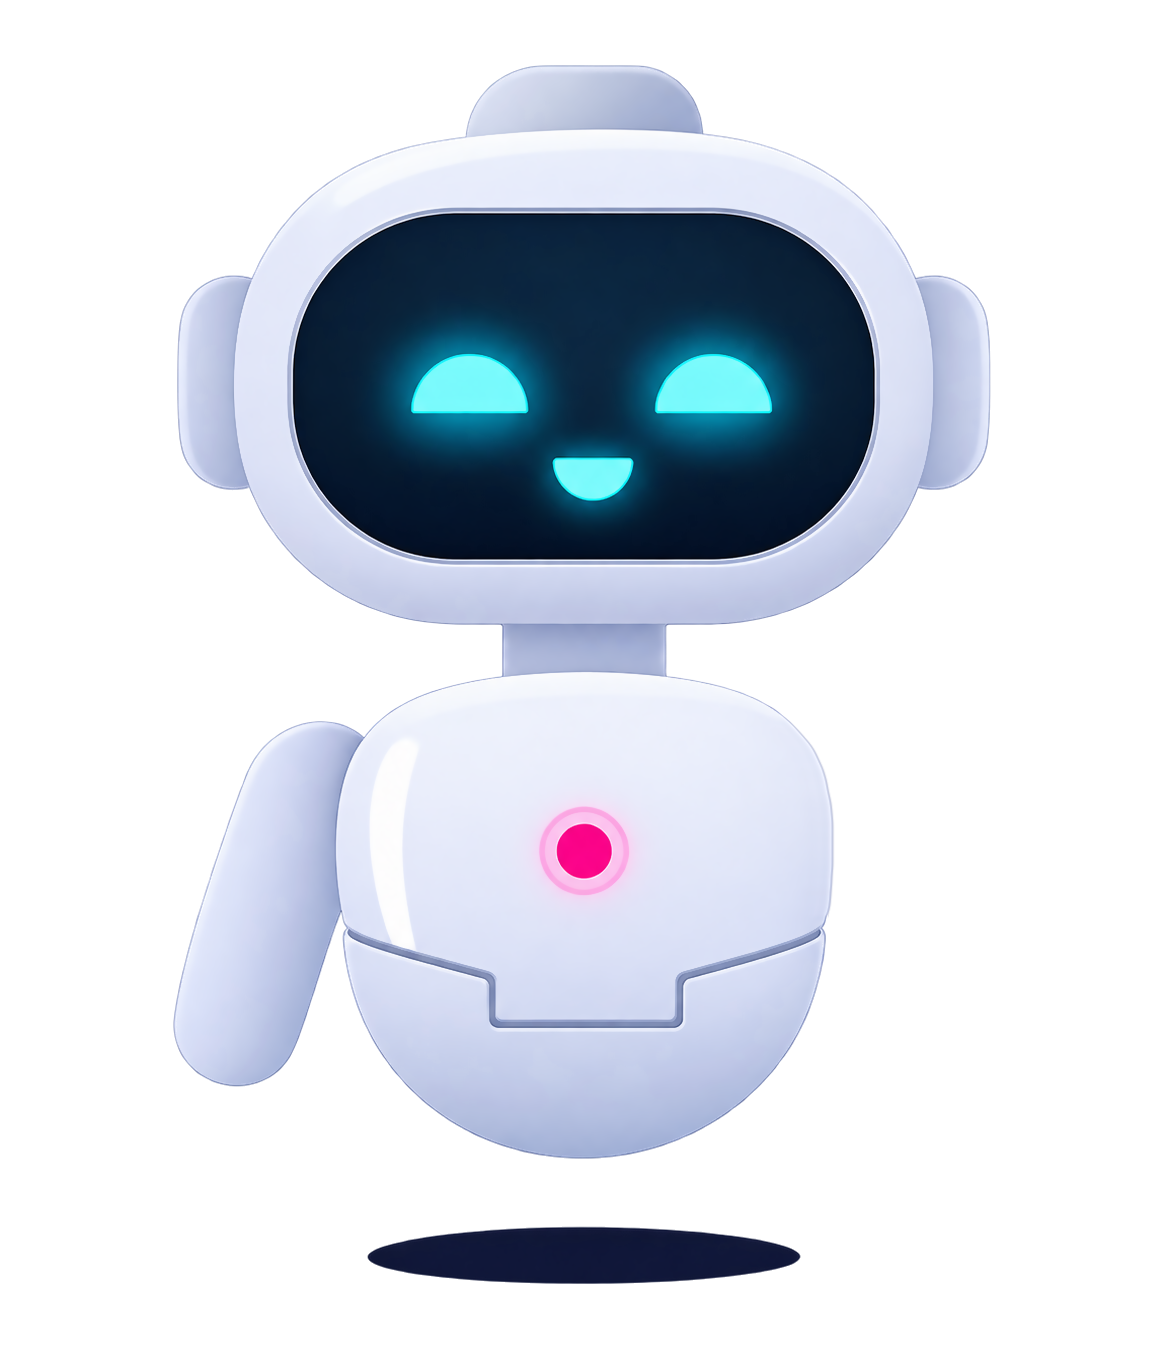
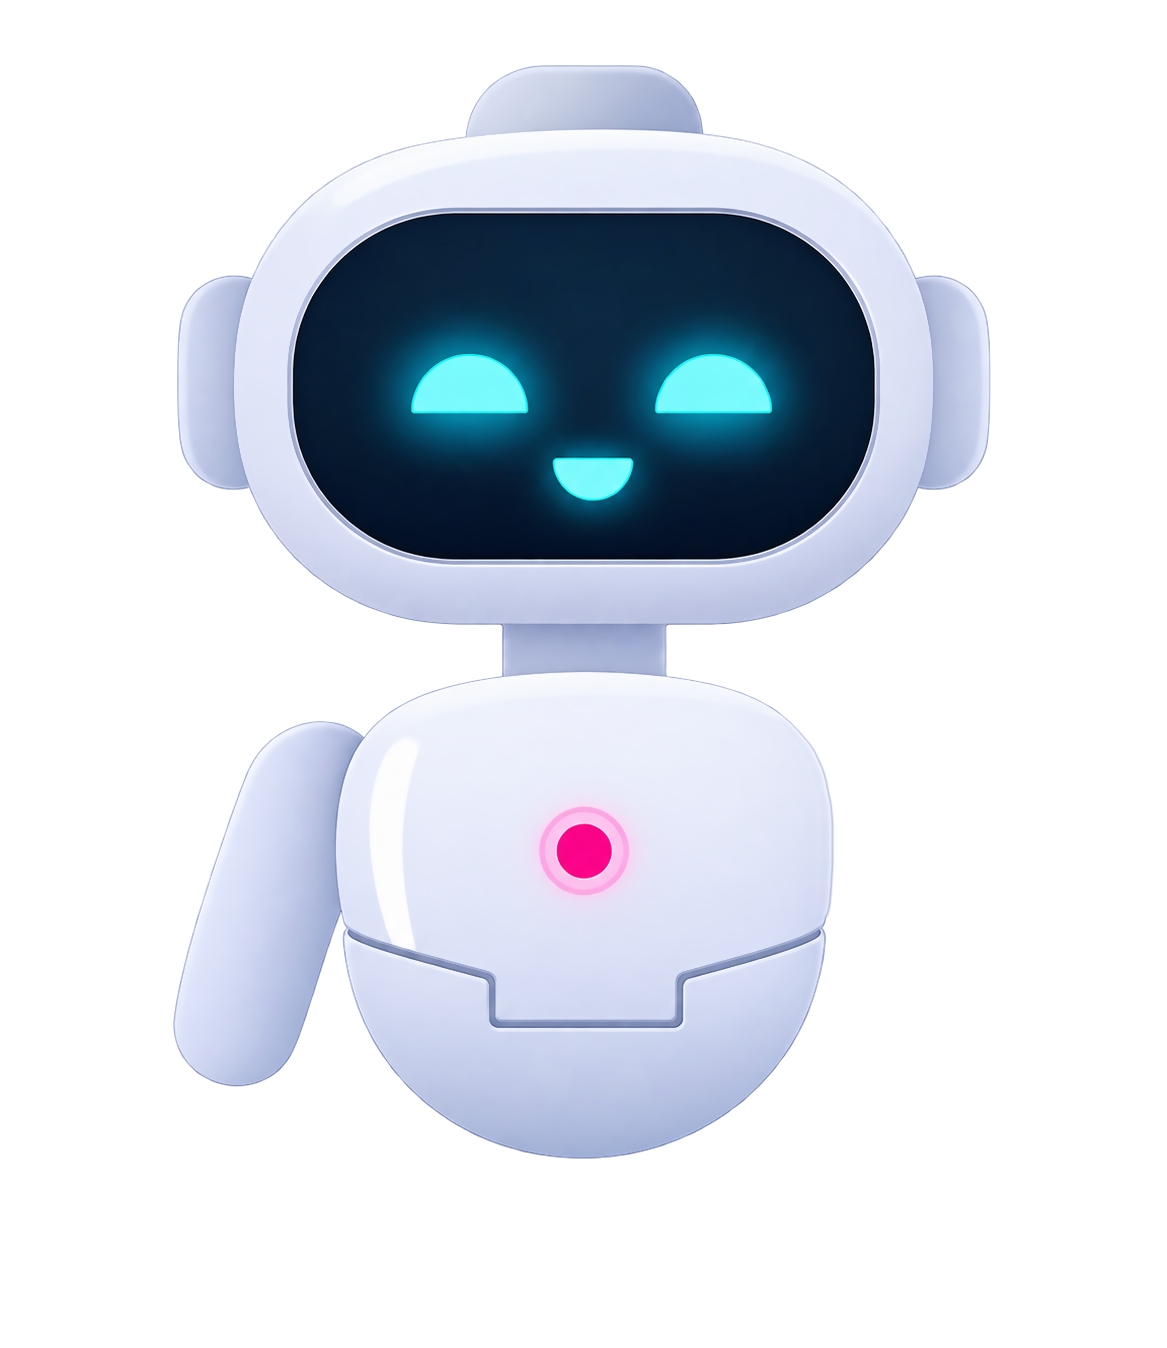
Auto-update

Changed region(s): [[0.3085, 0.9036, 0.6787, 0.9659]]

diff --git a/index.html b/index.html
@@ -120,46 +120,53 @@
         <div class="mascot-stage">
           <div class="mascot-views">
             <div class="robot-mascot is-active" data-mascot="zion">
-              <p class="robot-bubble">Hi, I'm Zion!</p>
-              <!-- Body art with the left arm removed; the arm is its own image so it can wave from the shoulder. -->
-              <img
-                class="robot-arm"
-                src="images/z1p-mascot-arm.png"
-                width="220"
-                height="375"
-                alt=""
-                aria-hidden="true"
-                loading="lazy"
-                decoding="async">
-              <img
-                class="robot-image"
-                src="images/z1p-mascot-body.png"
-                width="1167"
-                height="1348"
-                alt="Zion (Z109), the ZIP.RPO robot mascot"
-                loading="lazy"
-                decoding="async">
+              <!-- The floor shadow stays put while the figure (arm, body and bubble) floats above it. -->
+              <img class="robot-shadow" src="images/z1p-mascot-shadow.png" width="440" height="64" alt="" aria-hidden="true" loading="lazy" decoding="async">
+              <div class="robot-figure">
+                <p class="robot-bubble">Hi, I'm Zion!</p>
+                <!-- Body art with the left arm removed; the arm is its own image so it can wave from the shoulder. -->
+                <img
+                  class="robot-arm"
+                  src="images/z1p-mascot-arm.png"
+                  width="220"
+                  height="375"
+                  alt=""
+                  aria-hidden="true"
+                  loading="lazy"
+                  decoding="async">
+                <img
+                  class="robot-image"
+                  src="images/z1p-mascot-body.png"
+                  width="1167"
+                  height="1348"
+                  alt="Zion (Z109), the ZIP.RPO robot mascot"
+                  loading="lazy"
+                  decoding="async">
+              </div>
             </div>
 
             <div class="robot-mascot" data-mascot="zeta" aria-hidden="true">
-              <p class="robot-bubble">Hi, I'm Zeta!</p>
-              <img
-                class="robot-arm"
-                src="images/zeta-mascot-arm.png"
-                width="131"
-                height="214"
-                alt=""
-                aria-hidden="true"
-                loading="lazy"
-                decoding="async">
-              <img
-                class="robot-image"
-                src="images/zeta-mascot-body.png"
-                width="584"
-                height="674"
-                alt="Zeta, the pink ZIP.RPO robot mascot"
-                loading="lazy"
-                decoding="async">
+              <img class="robot-shadow" src="images/zeta-mascot-shadow.png" width="213" height="37" alt="" aria-hidden="true" loading="lazy" decoding="async">
+              <div class="robot-figure">
+                <p class="robot-bubble">Hi, I'm Zeta!</p>
+                <img
+                  class="robot-arm"
+                  src="images/zeta-mascot-arm.png"
+                  width="131"
+                  height="214"
+                  alt=""
+                  aria-hidden="true"
+                  loading="lazy"
+                  decoding="async">
+                <img
+                  class="robot-image"
+                  src="images/zeta-mascot-body.png"
+                  width="584"
+                  height="674"
+                  alt="Zeta, the pink ZIP.RPO robot mascot"
+                  loading="lazy"
+                  decoding="async">
+              </div>
             </div>
           </div>
 

diff --git a/styles.css b/styles.css
@@ -1648,6 +1648,46 @@ img, svg { max-width: 100%; }
   transform-origin: 33.21% 15.89%;
 }
 
+/* Slow float: the figure drifts up and down while its floor shadow stays put and breathes
+   with the height. Uses the standalone "translate" property so it never fights the wave. */
+.robot-figure {
+  position: relative;
+  z-index: 1;
+  animation: robot-float 6s ease-in-out infinite;
+}
+
+.robot-shadow {
+  position: absolute;
+  left: var(--shadow-left, 31.19%);
+  top: var(--shadow-top, 90.73%);
+  width: var(--shadow-width, 37.7%);
+  height: auto;
+  z-index: 0;
+  transform-origin: 50% 50%;
+  animation: robot-shadow-breathe 6s ease-in-out infinite;
+}
+
+.robot-mascot[data-mascot="zeta"] {
+  --shadow-left: 33.22%;
+  --shadow-top: 91.69%;
+  --shadow-width: 36.47%;
+}
+
+@keyframes robot-float {
+  0%, 100% { translate: 0 0; }
+  50%      { translate: 0 -14px; }
+}
+
+@keyframes robot-shadow-breathe {
+  0%, 100% { transform: scale(1); opacity: 1; }
+  50%      { transform: scale(.86); opacity: .6; }
+}
+
+@media (prefers-reduced-motion: reduce) {
+  .robot-figure,
+  .robot-shadow { animation: none; }
+}
+
 /* Zion | Zeta switch under the mascots, with a white pill that glides between the names. */
 .mascot-switch {
   position: relative;
